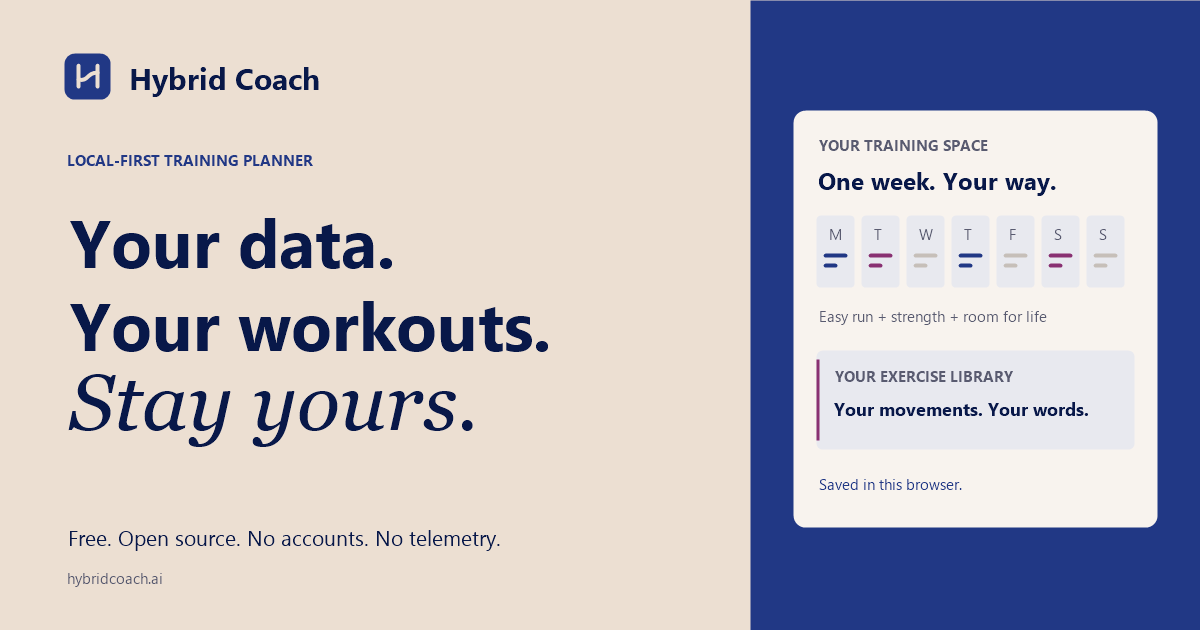
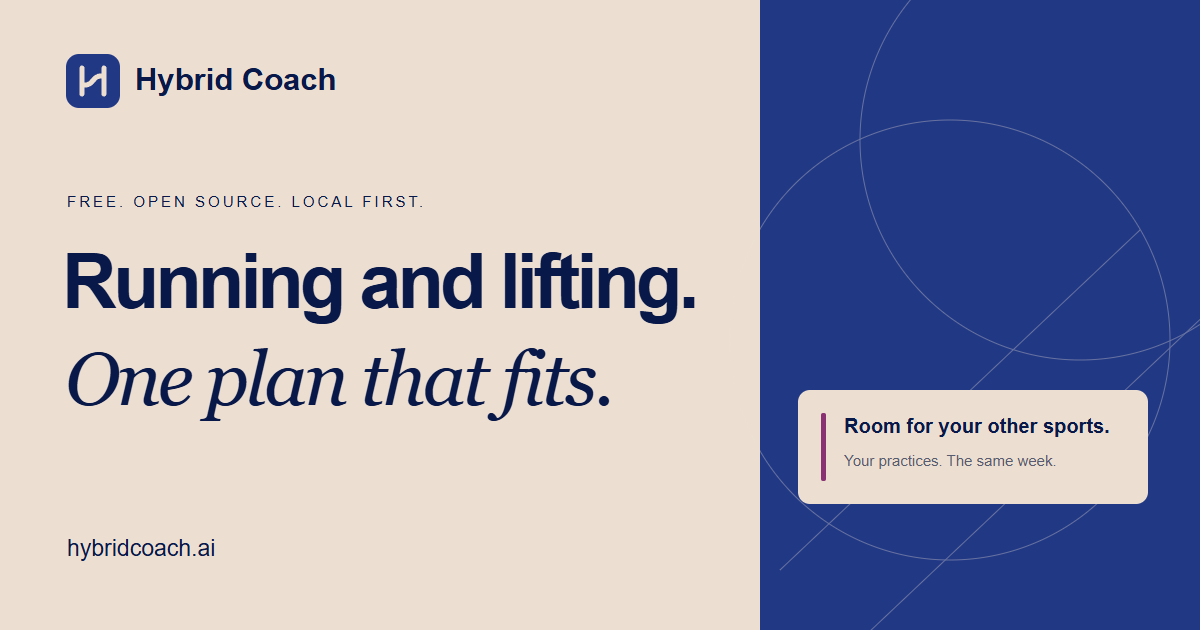
Restore the hybrid training headline with room for other sports

diff --git a/scripts/marketing.ts b/scripts/marketing.ts
@@ -85,7 +85,7 @@ function layout(path: string, title: string, description: string, body: string, 
     '@type': 'WebApplication', name: 'Hybrid Coach', url: `${siteOrigin}/app/`,
     applicationCategory: 'HealthApplication', operatingSystem: 'Web browser',
     isAccessibleForFree: true, license: `${sourceUrl}/blob/main/LICENSE`,
-    description: 'A free, MIT-licensed, local-first training planner for running and lifting. Plan and log offline after the first successful load. Optional AI sharing is user-controlled; external providers may charge.',
+    description: 'A free, MIT-licensed, local-first training planner for running, lifting and your other sports in one week. Plan and log offline after the first successful load. Optional AI sharing is user-controlled; external providers may charge.',
   })
   if (options.article) graph.push({
     '@type': 'BreadcrumbList', itemListElement: [
@@ -106,10 +106,10 @@ ${options.noindex ? '<meta name="robots" content="noindex, follow">' : `<link re
 <meta property="og:title" content="${escapeHtml(title)}"><meta property="og:description" content="${escapeHtml(description)}">
 <meta property="og:url" content="${url}"><meta property="og:image" content="${siteOrigin}/social-card.png">
 <meta property="og:image:width" content="1200"><meta property="og:image:height" content="630">
-<meta property="og:image:alt" content="Hybrid Coach. Your data. Your workouts. Stay yours. Local-first training planner.">
+<meta property="og:image:alt" content="Hybrid Coach. Running and lifting. One plan that fits. Room for your other sports.">
 <meta name="twitter:card" content="summary_large_image"><meta name="twitter:title" content="${escapeHtml(title)}">
 <meta name="twitter:description" content="${escapeHtml(description)}"><meta name="twitter:image" content="${siteOrigin}/social-card.png">
-<meta name="twitter:image:alt" content="Hybrid Coach. Your data. Your workouts. Stay yours. Local-first training planner.">
+<meta name="twitter:image:alt" content="Hybrid Coach. Running and lifting. One plan that fits. Room for your other sports.">
 ${options.article ? `<meta property="article:published_time" content="${publishedDate}"><meta property="article:modified_time" content="${publishedDate}">` : ''}
 <link rel="icon" type="image/svg+xml" href="${root}favicon.svg">
 <link rel="stylesheet" href="${root}marketing.css">
@@ -134,13 +134,13 @@ function cta(root: string): string {
 
 function home(): string {
   const sampleDays = [
-    ['M', 'run'], ['T', 'lift'], ['W', 'rest'], ['T', 'run'],
+    ['M', 'run'], ['T', 'lift'], ['W', 'sport'], ['T', 'run'],
     ['F', 'rest'], ['S', 'lift'], ['S', 'rest'],
   ]
   return `<section class="hero wrap">
     <div class="hero-copy"><p class="eyebrow"><span class="short-line"></span> Local-first. Open source. Free.</p>
-      <h1>Your data.<br>Your workouts.<br><span class="serif">Stay yours.</span></h1>
-      <p class="hero-description">AI is useful for talking through training. Keeping the plan in a chat is the hard part. Keep your running, lifting, equipment and actual workouts organised here, with or without AI.</p>
+      <h1>Running<br>and lifting.<br><span class="serif">One plan that fits.</span></h1>
+      <p class="hero-description">And room for the other sports you love. Bring your runs, lifts and practices into one week that fits your life, with your equipment, commitments and recovery in view. One plan, not competing schedules.</p>
       <div class="hero-actions"><a class="button" href="./app/">Open your planner ${arrow}</a><a class="text-link" href="#why-this-exists">Why this exists ${arrow}</a></div>
       <p class="hero-promise">No account. No subscription. No telemetry.<br>Plan and log offline after your first successful load.</p>
     </div>
@@ -151,6 +151,7 @@ function home(): string {
         <ul class="sample-week">
           <li class="sample-day run"><span class="day-dot" aria-hidden="true"></span><span><strong>Easy run</strong><small>Start from your comfortable routine</small></span></li>
           <li class="sample-day lift"><span class="day-dot" aria-hidden="true"></span><span><strong>Strength</strong><small>Your exercises. Your equipment.</small></span></li>
+          <li class="sample-day sport"><span class="day-dot" aria-hidden="true"></span><span><strong>Your other sport</strong><small>Practice belongs in the same week</small></span></li>
           <li class="sample-day rest"><span class="day-dot" aria-hidden="true"></span><span><strong>Room to recover</strong><small>Space for life, not catch-up work</small></span></li>
         </ul>
         <div class="library-preview"><span class="eyebrow">From your exercise library</span><strong>My dumbbell row</strong><p>Your description &middot; Your focus &middot; Your why</p><span class="equipment-tag">Dumbbells + bench</span></div>
@@ -176,7 +177,7 @@ function home(): string {
     <div class="how-title"><p class="eyebrow">Three steps. One starting point.</p><h2>Tell it once.<br><span class="serif">Build from there.</span></h2><p>Collect your context once, before any optional AI conversation. No second onboarding interview.</p><a class="text-link" href="./app/">Build my starting week ${arrow}</a></div>
     <ol class="steps">
       <li><span aria-hidden="true">01</span><div><h3>Goal</h3><p>Write what you want from training, in your own words. Add an event date if you have one; otherwise, use a 12-week progress review.</p></div></li>
-      <li><span aria-hidden="true">02</span><div><h3>Routine</h3><p>Enter your recent, comfortable training, session lengths, equipment, and available space. Add availability and fixed commitments so the plan starts from real life.</p></div></li>
+      <li><span aria-hidden="true">02</span><div><h3>Routine</h3><p>Enter your recent, comfortable training, session lengths, equipment, and available space. Add practices for your other sports as fixed sessions, so running and lifting fit around them.</p></div></li>
       <li><span aria-hidden="true">03</span><div><h3>Review</h3><p>Check the exercise lineup and your starting point. Keep the built-in choices, edit your library, or ask your own AI for suggestions. You approve the result before building.</p></div></li>
     </ol>
   </div></section>
@@ -198,6 +199,7 @@ function home(): string {
   <section class="section wrap faq-section"><div><p class="eyebrow">Good questions</p><h2>Clear choices.<br>Honest limits.</h2><p>An early, open project. Here&rsquo;s what to know before you start.</p></div><div class="faq-list">
     ${[
       ['Is Hybrid Coach really free?', 'The planner is free and MIT licensed. There is no trial, subscription, or account. Optional third-party AI services are separate and may charge for API use.'],
+      ['Can my other sports fit into the plan?', 'Yes. Add your usual practices or activities as fixed sessions alongside running and lifting, with their days, start time and duration. Keep them in the same week rather than juggling separate schedules. This organises your training around those sessions; it does not generate a complete sport-specific coaching programme for every activity.'],
       ['Do I need AI to use it?', 'No. Built-in planning, manual custom exercises, logging, and weekly review work without AI or an API key. Optional AI can suggest exercises and explain your recorded work. You approve changes; the engine controls the quantities, loads, scheduling, and safety checks.'],
       ['What would I share with AI?', 'Only the brief you explicitly choose to share. A setup brief contains your goal, routine, equipment, and planning context, not training logs. A weekly-review brief also includes that week&rsquo;s actual logs, notes, and recorded health flags. Preview it before sharing. Neither brief exports the entire training history or API keys; your provider&rsquo;s policies apply.'],
       ['Can I use it offline?', 'Yes, after your first successful load and once the app confirms its offline copy is ready. Reopen /app/ in the same browser to plan and log offline. Remote AI still needs connectivity. The API connection is memory-only and clears when you reload or disconnect.'],
@@ -266,7 +268,7 @@ function privacy(): string {
 
 export function marketingPages(): MarketingPage[] {
   const pages = [
-    { path: '/', title: 'Local-First Training Planner for Running & Lifting | Hybrid Coach', description: 'Your data. Your workouts. Stay yours. Free, open-source planning for running and lifting. Offline after setup, optional AI, no accounts or telemetry.', body: home() },
+    { path: '/', title: 'Free Hybrid Training Planner for Running & Lifting | Hybrid Coach', description: 'Running, lifting and your other sports in one plan. Free, open-source and local-first, with offline planning, optional AI and training records you own.', body: home() },
     { path: '/learn/', title: 'Hybrid Training Guides: Running, Lifting & Real Life | Hybrid Coach', description: 'Learn how to combine running and strength training, arrange same-day sessions, and adapt busy weeks. Practical guides with sources and honest limits.', body: learningHub() },
     { path: '/method/', title: 'How the Hybrid Coach Training Engine Works', description: 'A local planning engine, your exercise library, and an optional AI harness. See who sets the work, what you approve, and how training history is kept.', body: method() },
     { path: '/privacy/', title: 'Privacy & Your Local Training Data | Hybrid Coach', description: 'Local browser storage, offline planning, and backups you control. What the static host sees and what you choose to share with AI. No accounts or telemetry.', body: privacy() },

diff --git a/tests/marketing.test.ts b/tests/marketing.test.ts
@@ -16,9 +16,9 @@ test('every public page is crawlable HTML with unique search and social metadata
     assert.ok(page.html.includes(`<link rel="canonical" href="${siteOrigin}${page.path}">`))
     assert.ok(page.html.includes(`<meta name="description" content="${escapeHtml(page.description)}">`))
     assert.match(page.html, /property="og:image"/)
-    assert.match(page.html, /property="og:image:alt" content="Hybrid Coach\. Your data\. Your workouts\. Stay yours\./)
+    assert.match(page.html, /property="og:image:alt" content="Hybrid Coach\. Running and lifting\. One plan that fits\. Room for your other sports\./)
     assert.match(page.html, /name="twitter:card" content="summary_large_image"/)
-    assert.match(page.html, /name="twitter:image:alt" content="Hybrid Coach\. Your data\. Your workouts\. Stay yours\./)
+    assert.match(page.html, /name="twitter:image:alt" content="Hybrid Coach\. Running and lifting\. One plan that fits\. Room for your other sports\./)
     assert.doesNotMatch(page.html, /noindex|src="https?:|id="root"|\/src\/main|<form\b/)
     const schema = page.html.match(/<script type="application\/ld\+json">(.*?)<\/script>/)?.[1]
     assert.ok(schema)
@@ -27,7 +27,7 @@ test('every public page is crawlable HTML with unique search and social metadata
   }
 })
 
-test('public pages use a privacy-first hero and abstract training visual, not sports artwork', () => {
+test('public pages lead with hybrid training and room for other sports without sport-specific artwork', () => {
   const pages = marketingPages()
   for (const page of pages) {
     assert.doesNotMatch(page.html, /Bangkok|dodgeball|court|throwing|view=legacy|original planner|planner archive/i)
@@ -37,18 +37,25 @@ test('public pages use a privacy-first hero and abstract training visual, not sp
   }
   const home = pages.find(page => page.path === '/')
   assert.ok(home)
-  assert.match(home.html, /<h1>Your data\.<br>Your workouts\.<br><span class="serif">Stay yours\.<\/span><\/h1>/)
+  assert.equal(home.title, 'Free Hybrid Training Planner for Running & Lifting | Hybrid Coach')
+  assert.match(home.html, /<h1>Running<br>and lifting\.<br><span class="serif">One plan that fits\.<\/span><\/h1>/)
   assert.match(home.html, /class="calendar-preview" aria-hidden="true"/)
   assert.match(home.html, /class="library-preview"/)
   assert.match(home.html, /<figcaption>Illustrative workspace, not a personal prescription\.<\/figcaption>/)
   const hero = home.html.match(/<section class="hero wrap">([^]*?)<\/section>/)?.[1]
   assert.ok(hero)
+  assert.match(hero, /room for the other sports you love/)
+  assert.match(hero, /Your other sport/)
+  assert.match(hero, /Practice belongs in the same week/)
+  assert.match(home.html, /Add practices for your other sports as fixed sessions/)
+  assert.match(home.html, /does not generate a complete sport-specific coaching programme for every activity/)
   assert.doesNotMatch(hero, /customExercises|version-[12]|workload profile|dose limits|<code>/)
   assert.match(hero, /No account\. No subscription\. No telemetry\./)
   assert.match(hero, /offline after your first successful load/)
   assert.match(hero, /href="\.\/app\/">Open your planner/)
   assert.match(home.description, /[Ll]ocal|[Oo]ffline/)
   assert.match(home.description, /optional AI/)
+  assert.match(home.description, /other sports in one plan/)
   assert.match(home.html, /"isAccessibleForFree":true,"license":"https:\/\/github\.com\/ck-sec\/hybrid-planner\/blob\/main\/LICENSE"/)
   assert.match(home.html, /"description":"A free, MIT-licensed, local-first training planner[^"]*offline after the first successful load[^"]*AI sharing is user-controlled/)
 })

diff --git a/public/marketing.css b/public/marketing.css
@@ -55,6 +55,7 @@ ul,ol{padding-left:1.4em}
 .calendar-day>i{display:block;background:var(--lapis);border-radius:2px;height:4px;margin-top:5px}
 .calendar-day>i:last-child{width:65%;opacity:.3}
 .calendar-day.lift>i{background:var(--berry)}
+.calendar-day.sport>i{background:var(--plum)}
 .calendar-day.rest{background:#efe9e3}
 .calendar-day.rest>i{background:#c6bfb9}
 .sample-week{margin:0;list-style:none;padding:0 23px}
@@ -63,6 +64,7 @@ ul,ol{padding-left:1.4em}
 .sample-day strong{display:block;font-size:13px;line-height:1.4;font-weight:650}
 .sample-day small{display:block;color:var(--muted);font-size:11px;line-height:1.6}
 .sample-day.lift .day-dot{background:var(--berry)}
+.sample-day.sport .day-dot{background:var(--plum)}
 .sample-day.rest .day-dot{background:#bfb9b4;height:12px}
 .sample-day.rest strong{font-weight:400;color:var(--muted)}
 .library-preview{margin:12px 23px 20px;border:1px solid #cfc4d3;border-left:3px solid var(--berry);border-radius:5px;padding:12px 14px}
